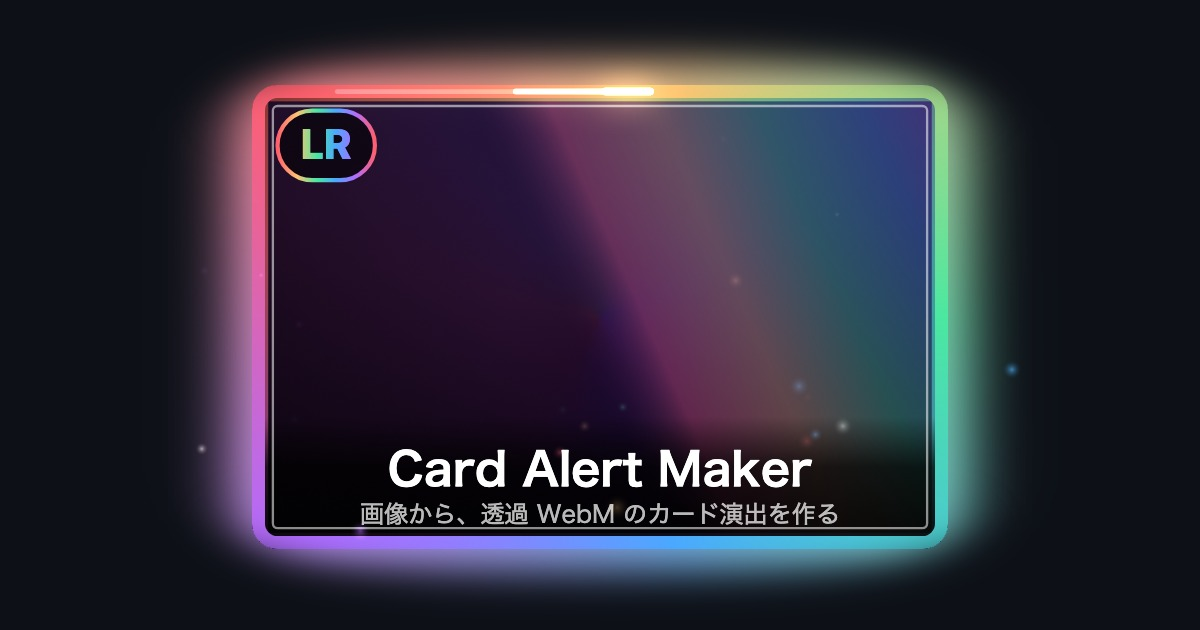
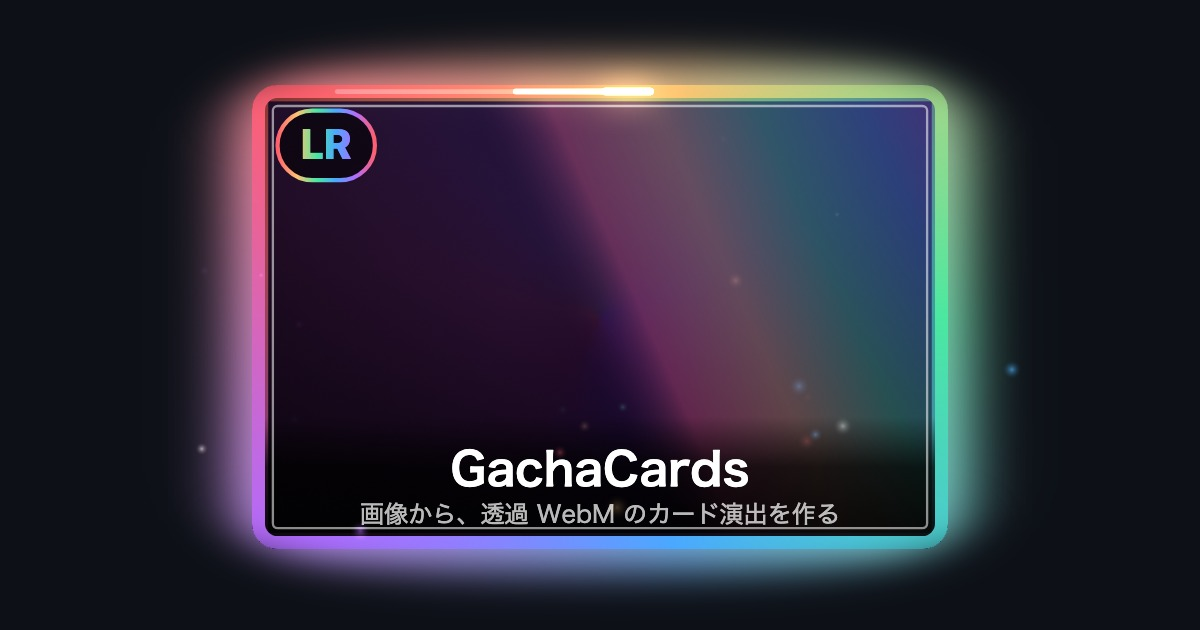
feat: rename the app to GachaCards
公開に向けて名前を変える。card-alert-maker は説明的で覚えにくく、
このツールらしさ（保留カラーで昇格する）が出ていなかった。

cardgacha ではなく gachacards にした。英語の複合語は後ろの語が主語になる。
このツールが出すのはカードで、引く仕組みは無い（レアリティは自分で選ぶ）ので、
「ガチャである」と読める cardgacha は中身と食い違う。「カードガチャ」は
ソシャゲで定着した語なので、検索でも埋もれやすい。

保存の鍵も gachacards:settings に変えた。公開前で他に使っている人がいないので、
移行のコードを残さずに済ませられる今が一番安い。

Worker 名も変わるので、デプロイ先は gachacards.11gather11.workers.dev になる。
古い Worker はダッシュボードから消すこと。

OGP は名前を入れ直して作り直した。

Claude-Session: https://claude.ai/code/session_015uvQGTqxq7zc8cxjp5o4t1

Changed region(s): [[0.3083, 0.6937, 0.6783, 0.7841]]

diff --git a/index.html b/index.html
@@ -4,7 +4,7 @@
     <meta charset="UTF-8" />
     <meta name="viewport" content="width=device-width, initial-scale=1.0" />
 
-    <title>Card Alert Maker｜配信アラート用の透過 WebM を作る</title>
+    <title>GachaCards｜配信アラート用の透過 WebM を作る</title>
     <meta
       name="description"
       content="画像を1枚入れるだけで、パチンコの保留カラー（白→青→緑→赤→金→虹）で昇格するカード演出を作り、Streamlabs にそのまま使える透過 WebM として書き出します。画像はブラウザの外に出ません。"
@@ -20,14 +20,14 @@
       og:url と og:image は絶対 URL でないと拾われないので、公開先に合わせること。
     -->
     <meta property="og:type" content="website" />
-    <meta property="og:site_name" content="Card Alert Maker" />
-    <meta property="og:title" content="Card Alert Maker｜配信アラート用の透過 WebM を作る" />
+    <meta property="og:site_name" content="GachaCards" />
+    <meta property="og:title" content="GachaCards｜配信アラート用の透過 WebM を作る" />
     <meta
       property="og:description"
       content="画像を1枚入れるだけで、保留カラーで昇格するカード演出を作り、Streamlabs にそのまま使える透過 WebM として書き出します。"
     />
-    <meta property="og:url" content="https://card.11gather11.com/" />
-    <meta property="og:image" content="https://card.11gather11.com/og.jpg" />
+    <meta property="og:url" content="https://gachacards.11gather11.com/" />
+    <meta property="og:image" content="https://gachacards.11gather11.com/og.jpg" />
     <meta property="og:image:width" content="1200" />
     <meta property="og:image:height" content="630" />
     <meta property="og:locale" content="ja_JP" />

diff --git a/src/App.tsx b/src/App.tsx
@@ -356,7 +356,7 @@ export function App() {
     <div {...stylex.props(styles.app)}>
       <aside {...stylex.props(styles.panel)}>
         <header>
-          <h1 {...stylex.props(styles.title)}>Card Alert Maker</h1>
+          <h1 {...stylex.props(styles.title)}>GachaCards</h1>
           <p {...stylex.props(styles.subtitle)}>画像から、透過 WebM のカード演出を作る</p>
         </header>
 

diff --git a/src/settings.test.ts b/src/settings.test.ts
@@ -9,7 +9,7 @@ import { afterEach, describe, expect, it } from 'vite-plus/test'
 
 import { DEFAULT_SETTINGS, drawSeed, loadSettings, saveSettings } from './settings.ts'
 
-const STORAGE_KEY = 'card-alert-maker:settings'
+const STORAGE_KEY = 'gachacards:settings'
 
 afterEach(() => {
   localStorage.removeItem(STORAGE_KEY)

diff --git a/src/settings.ts b/src/settings.ts
@@ -45,7 +45,7 @@ export interface Settings {
   focusY: number
 }
 
-const STORAGE_KEY = 'card-alert-maker:settings'
+const STORAGE_KEY = 'gachacards:settings'
 
 /** 何も保存されていないときに使う初期設定。 */
 export const DEFAULT_SETTINGS: Settings = {

diff --git a/README.md b/README.md
@@ -1,4 +1,4 @@
-# Card Alert Maker
+# GachaCards
 
 画像を 1 枚入れると、レアリティ演出つきのカードが動く**透過 WebM** を書き出すブラウザアプリ。
 Streamlabs のアラート画像として使うことを想定している。
